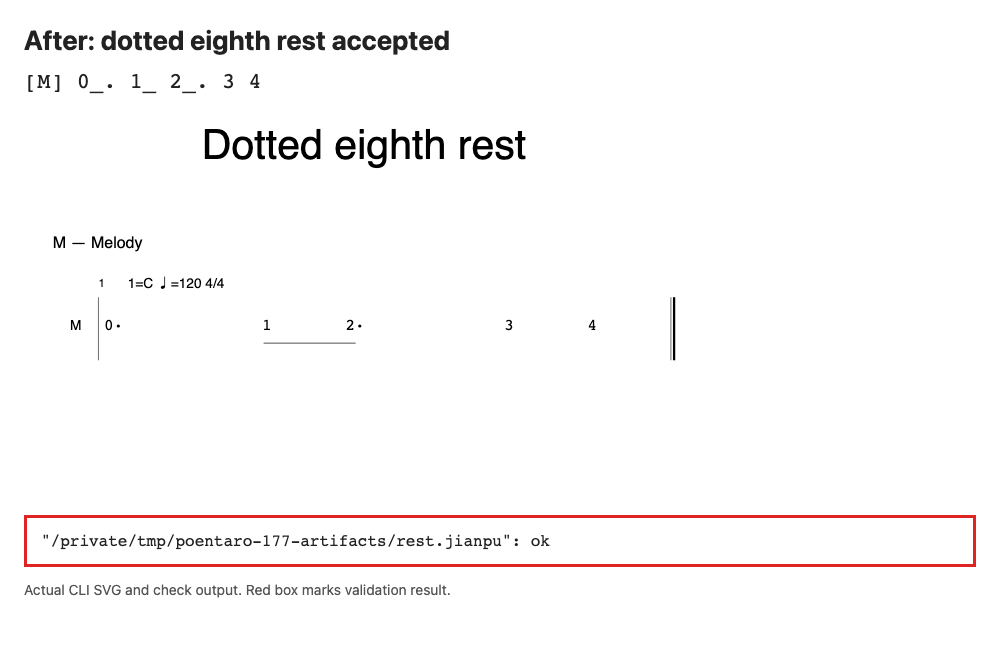
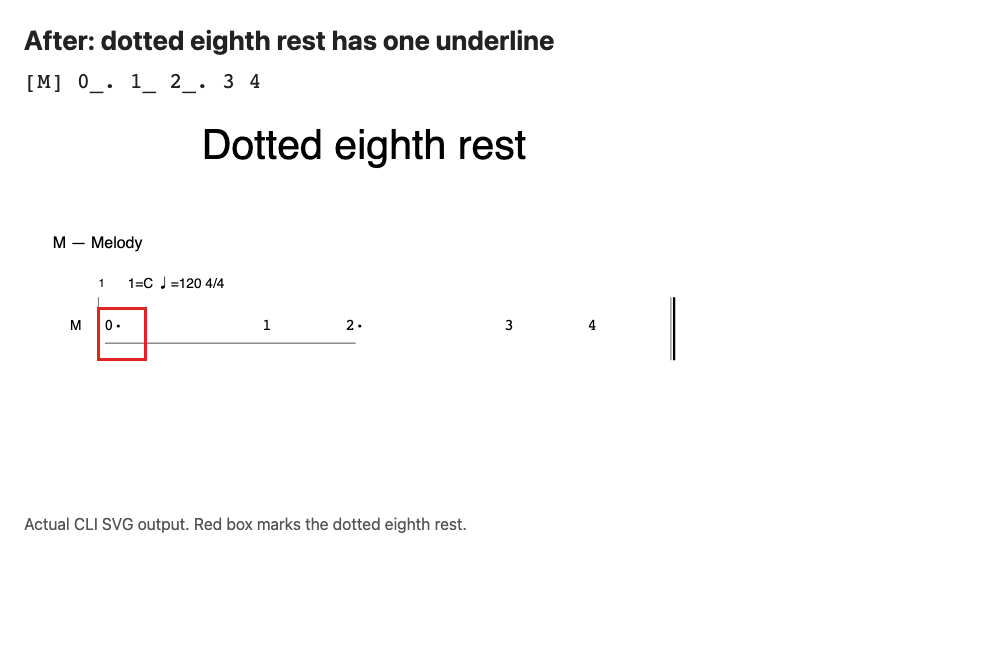
fix: render dotted eighth rests with an underline

diff --git a/src/compiler/part_slice_unit.rs b/src/compiler/part_slice_unit.rs
@@ -57,18 +57,22 @@ pub(super) struct CompiledUnit {
     pub(super) head: ElementContent,
 }
 
-/// Beam/underline count reflects each note's *written* duration (e.g. `=` sixteenth
+/// Beam/underline count reflects each note or rest's *written* duration (e.g. `=` sixteenth
 /// notes always get a double underline), not its tuplet-rescaled duration — a triplet
 /// squeezing 3 sixteenth notes into an eighth note's space is still notated with the
 /// sixteenth note's double beam underneath, with the tuplet bracket/number drawn as a
 /// separate overlay (see `tuplet_spans.rs`). For tuplet-tagged units, undo the
-/// `* den / num` rescale (exact, since `unit.duration` was constructed as a multiple
+/// `* den / num` rescale (exact, since `duration` was constructed as a multiple
 /// of `den`) to recover the multiplier-scaled written duration before comparing it
 /// against the thresholds below.
-fn written_underline_count(unit: &CompiledUnit, multiplier: u32) -> u32 {
-    let scaled_written_duration = match unit.tuplet {
-        Some(TupletInfo { num, den, .. }) => unit.duration / den * num,
-        None => unit.duration,
+pub(super) fn written_underline_count(
+    duration: u32,
+    tuplet: Option<TupletInfo>,
+    multiplier: u32,
+) -> u32 {
+    let scaled_written_duration = match tuplet {
+        Some(TupletInfo { num, den, .. }) => duration / den * num,
+        None => duration,
     };
     if scaled_written_duration == multiplier {
         2
@@ -98,7 +102,7 @@ pub(super) fn compile_unit(
     );
 
     let multiplier = state.multiplier;
-    let underline_count = written_underline_count(&unit, multiplier);
+    let underline_count = written_underline_count(unit.duration, unit.tuplet, multiplier);
 
     state.elements.push(ColumnElement {
         column: *state.col,

diff --git a/src/compiler/tests_rest_underlines.rs b/src/compiler/tests_rest_underlines.rs
@@ -1,0 +1,37 @@
+use crate::compiler::{compile, types::ElementContent};
+use crate::grouper::group;
+use crate::parser::parse;
+
+#[test]
+fn rests_keep_their_written_underlines() {
+    for (line, expected_levels) in [
+        ("0_. 1_ 2_. 3 4", vec![0]),
+        ("0_ 1_ 2 3 4", vec![0]),
+        ("0= 1= 2_ 3 4 5", vec![0, 1]),
+        ("0. 1_ 2 3", vec![]),
+        ("3:{0_ 1_ 2_} 3 4 5", vec![0]),
+        ("3:{0= 1= 2=} 3_ 4 5 6", vec![0, 1]),
+        ("3:{0_. 1_. 2_.} 3 4_ 5", vec![0]),
+    ] {
+        let source = format!(
+            "# metadata\ntitle=\"Rest underlines\"\n# parts\nM = notes\n# score\n[M] {line}\n"
+        );
+        let doc = parse(&source, "test.jianpu", &[]).unwrap();
+        let score = group(doc).unwrap();
+        let result = compile(&score);
+        let row = &result.blocks[0].rows[0];
+        let levels: Vec<_> = row
+            .elements
+            .iter()
+            .filter_map(|element| match element.content {
+                ElementContent::Underline {
+                    from_column: 0,
+                    level,
+                    ..
+                } => Some(level),
+                _ => None,
+            })
+            .collect();
+        assert_eq!(levels, expected_levels, "{line}");
+    }
+}

diff --git a/src/compiler/part_slice.rs b/src/compiler/part_slice.rs
@@ -1,5 +1,5 @@
 use super::beam::{flush_beam_buffer, BeamEntry};
-use super::part_slice_unit::{compile_unit, CompiledUnit, PartState};
+use super::part_slice_unit::{compile_unit, written_underline_count, CompiledUnit, PartState};
 use super::slur_chains::{extend_note_chains, PendingSlurOpen, SlurChainContext, SlurKey};
 use super::timed_unit::TimedUnit;
 use super::tuplet_spans::{finish_tuplet_spans, record_tuplet_tag, TupletSpanContext};
@@ -284,13 +284,7 @@ fn compile_rest(
     note_id: usize,
 ) {
     let multiplier = state.multiplier;
-    let underline_count = if rest.duration == multiplier {
-        2
-    } else if rest.duration == 2 * multiplier {
-        1
-    } else {
-        0
-    };
+    let underline_count = written_underline_count(rest.duration, rest.tuplet, multiplier);
 
     if underline_count == 0 {
         flush_beam_buffer(state.beam_buf, state.elements);

diff --git a/src/compiler/mod.rs b/src/compiler/mod.rs
@@ -362,6 +362,8 @@ mod tests_lyrics_and_diagnostics;
 #[cfg(test)]
 mod tests_multi_measure_rest;
 #[cfg(test)]
+mod tests_rest_underlines;
+#[cfg(test)]
 mod tests_row_part_kind;
 #[cfg(test)]
 mod tests_slur;
